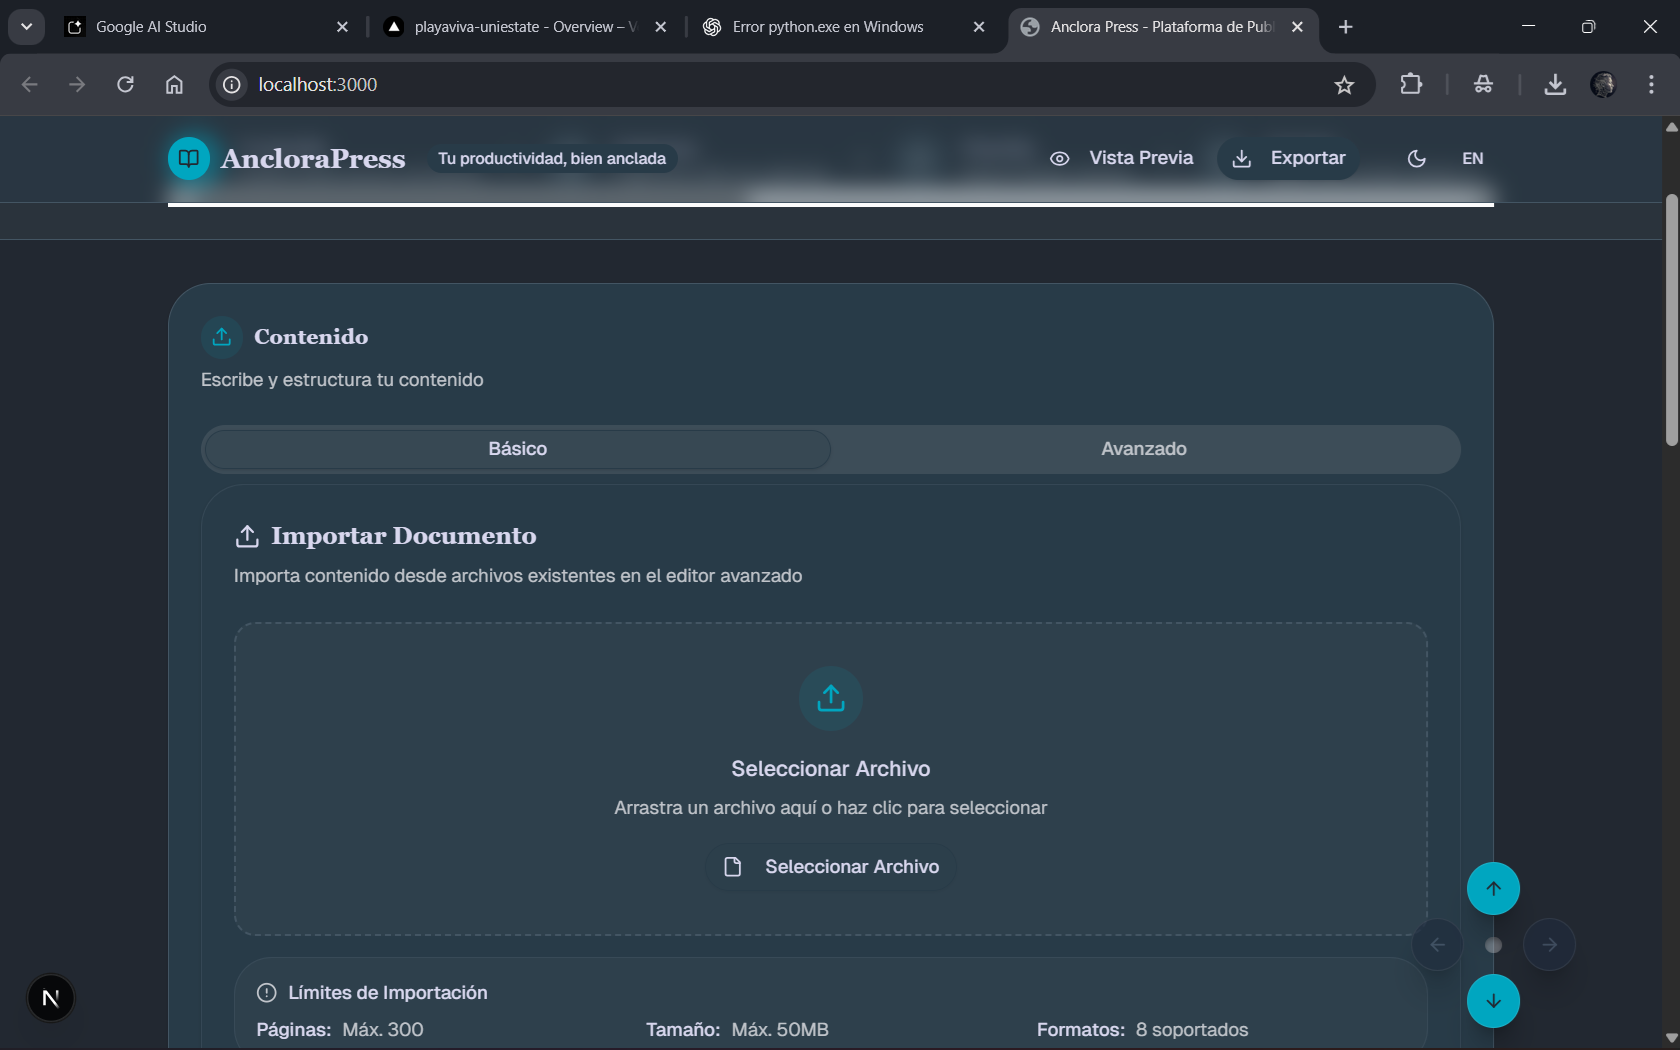
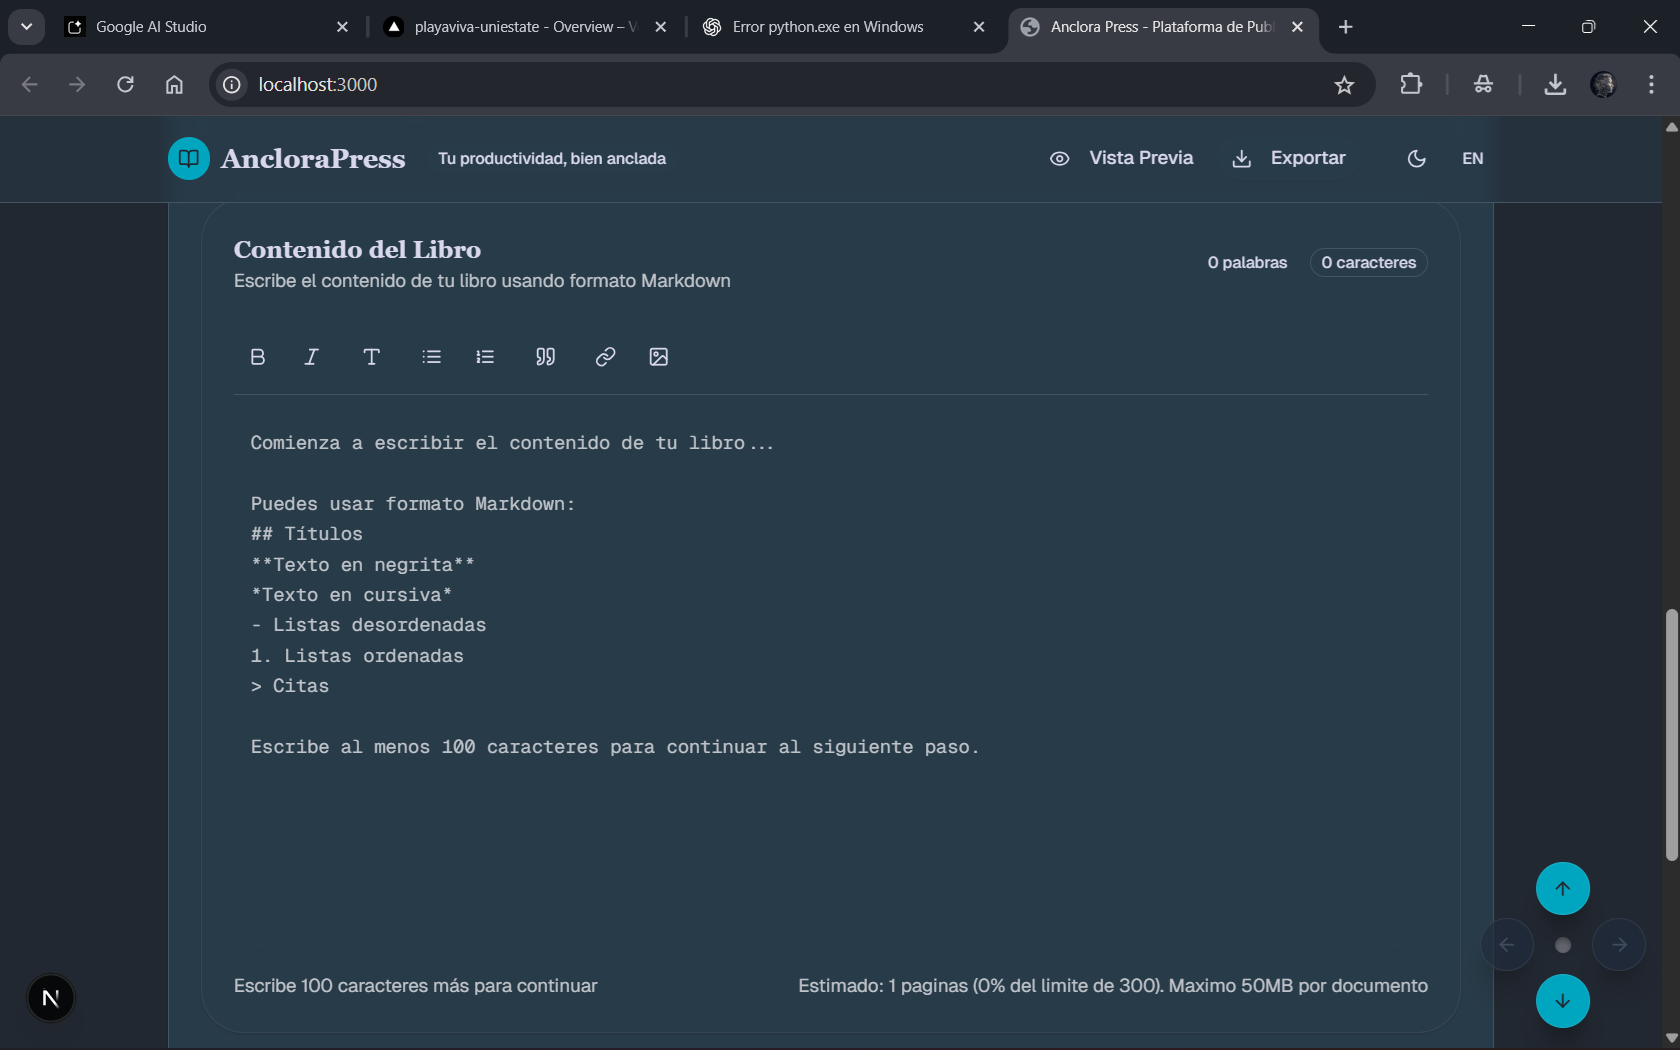
Reducí tamaño y separación del mando (botones ahora de 36 px con gap-0), y recalculé el   offset para centrarlo mejor en el espacio lateral. El cálculo usa un ancho realista (~110 px)   y sitúa la columna sobre la mitad del hueco, lo que aleja el botón “Anterior” del frame (src/   components/floatin

diff --git a/src/components/floating-navigator.tsx b/src/components/floating-navigator.tsx
@@ -10,7 +10,7 @@ interface NavigatorButtonProps extends ButtonHTMLAttributes<HTMLButtonElement> {
 }
 
 const buttonBase =
-  "w-10 h-10 rounded-full flex items-center justify-center shadow-xl shadow-black/25 transition-all duration-200 border border-white/10 backdrop-blur pointer-events-auto"
+  "w-9 h-9 rounded-full flex items-center justify-center shadow-xl shadow-black/25 transition-all duration-200 border border-white/10 backdrop-blur pointer-events-auto"
 
 const activeClasses =
   "bg-primary text-primary-foreground hover:bg-primary/90 focus-visible:outline-none focus-visible:ring-2 focus-visible:ring-white/50"
@@ -61,7 +61,7 @@ export function FloatingNavigator({
       className="fixed bottom-4 z-40 pointer-events-none"
       style={{ right: rightOffset }}
     >
-      <div className="grid grid-cols-3 grid-rows-3 gap-0.5 pointer-events-auto">
+      <div className="grid grid-cols-3 grid-rows-3 gap-0 pointer-events-auto">
         <div />
         <NavigatorButton
           aria-label="Subir"

diff --git a/src/components/anclora-press.tsx b/src/components/anclora-press.tsx
@@ -288,14 +288,10 @@ export default function AncloraPress() {
     }
     const rect = contentRef.current.getBoundingClientRect();
     const rightMargin = window.innerWidth - rect.right;
-    const navigatorWidth = 128;
-
-    if (rightMargin > navigatorWidth + 16) {
-      const centered = (rightMargin - navigatorWidth) / 2;
-      setNavigatorOffset(Math.max(12, centered));
-    } else {
-      setNavigatorOffset(12);
-    }
+    const navigatorWidth = 110;
+    const horizontalCenter = navigatorWidth / 2;
+    const offset = Math.max(12, rightMargin - horizontalCenter);
+    setNavigatorOffset(offset);
   }, []);
 
   useEffect(() => {
